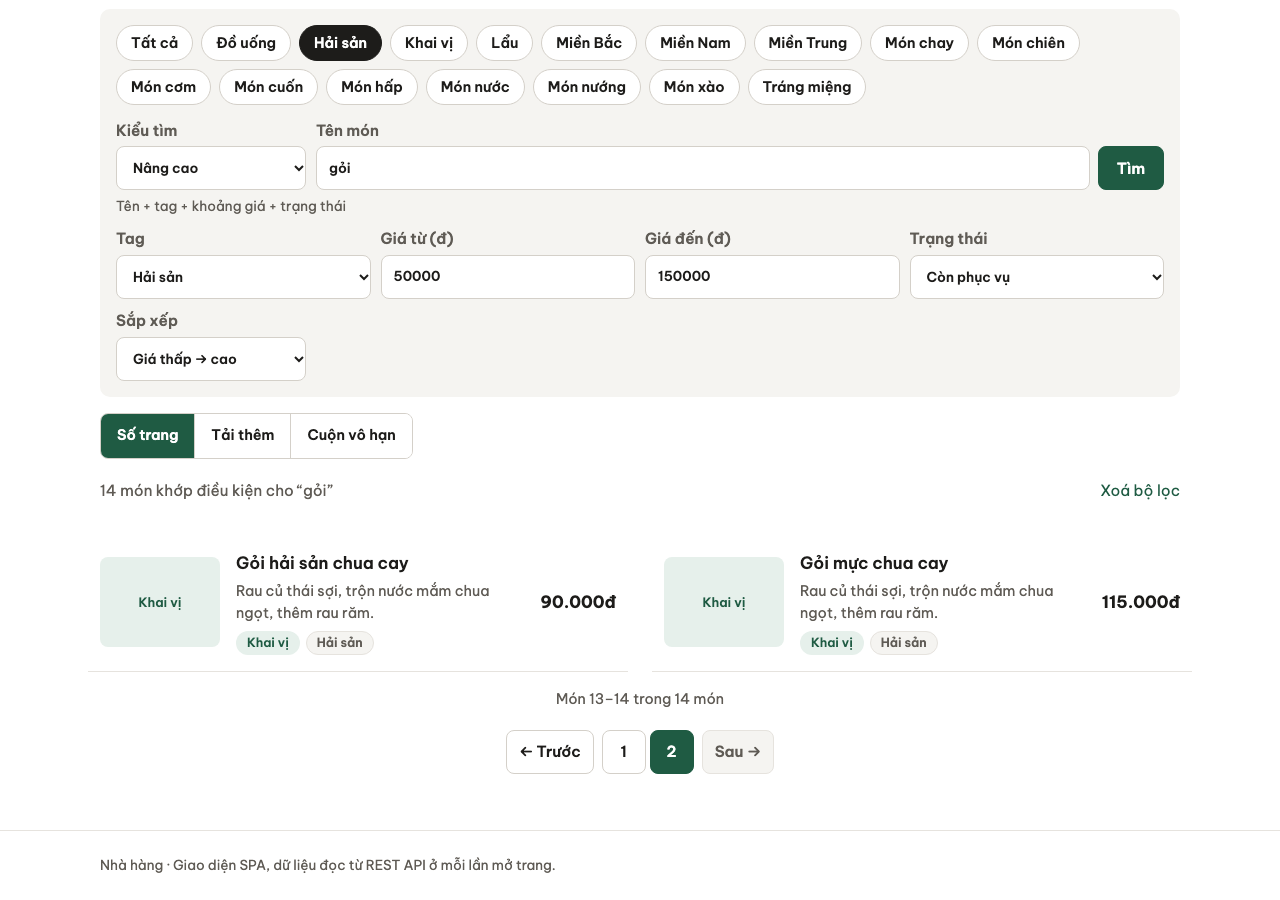
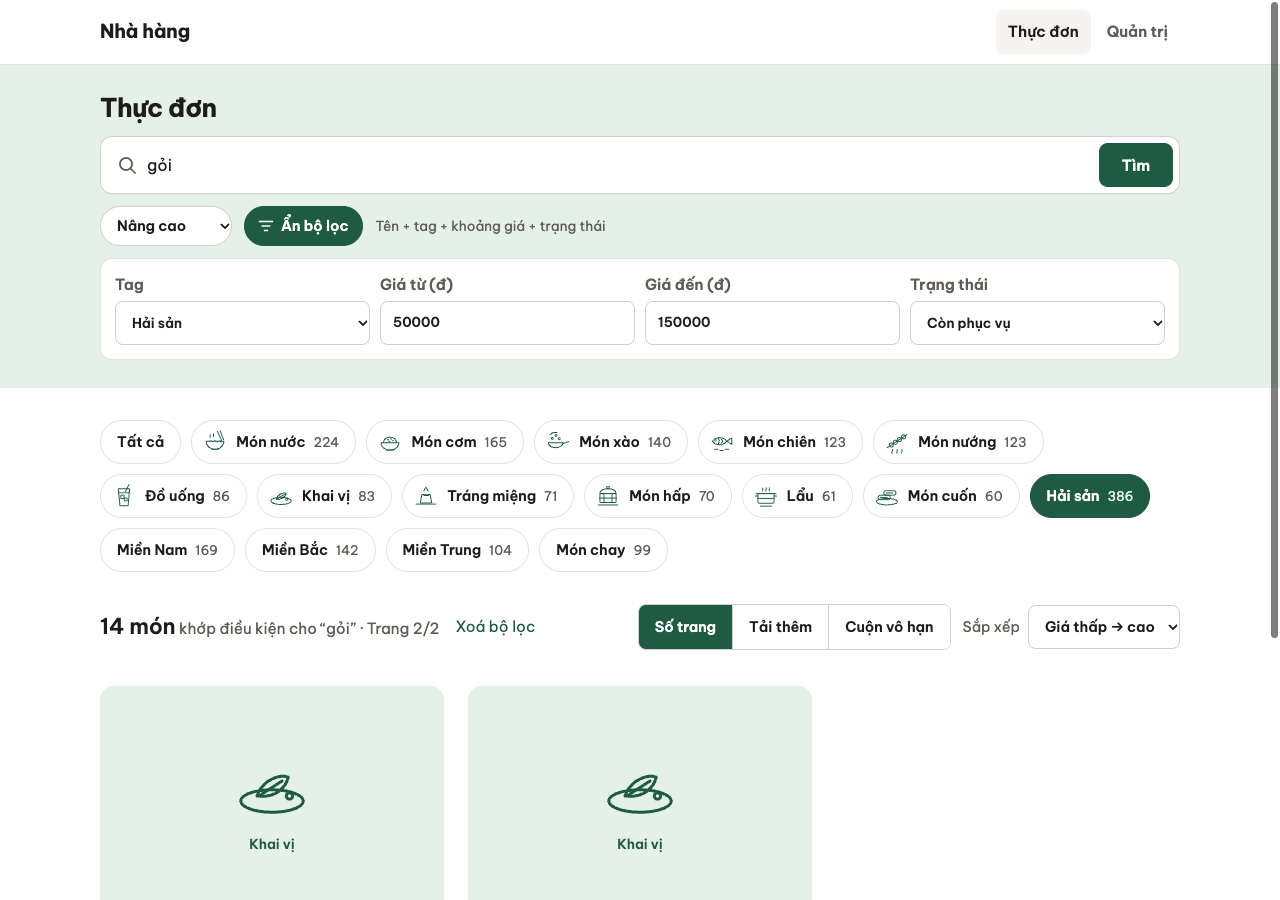
Nghiệm thu lại giao diện thực đơn mới: gom id qua 3 kiểu UI 386/386 (Hải sản + giá tăng), kịch bản bước 20–24 đạt; README, hotrotrinhbay.html, kichban.html theo giao diện mới; chụp lại 11 ảnh evidence thực đơn

diff --git a/kichban.html b/kichban.html
@@ -378,16 +378,16 @@ COMMIT</code></pre></li>
   <h3>Phần 1 — Bảng nghiệm thu của đề</h3>
   <div class="card">
     <ol class="demo">
-      <li><span class="crit">Ba kiểu UI</span> Mở <code>http://localhost:5173/dishes</code>. <span class="see">Thấy được: "1200 món", 12 món (Phở bò tái đầu tiên), dải 1 2 … 100; Network chỉ 1 request <code>dishes?mode=basic&amp;pageSize=12</code> ≈ 6 KB, Preview: <code>items</code> 12, <code>total</code> 1200.</span></li>
+      <li><span class="crit">Ba kiểu UI</span> Mở <code>http://localhost:5173/dishes</code>. <span class="see">Thấy được: đầu trang có ảnh ghép 3 món, "1.200 món · Trang 1/100", 12 thẻ món (Phở bò tái đầu tiên), dải 1 2 … 100; món chưa có ảnh (vd. Cơm gà Hội An) hiện hình minh hoạ theo loại món; Network chỉ 1 request <code>dishes?mode=basic&amp;pageSize=12</code> ≈ 6 KB, Preview: <code>items</code> 12, <code>total</code> 1200.</span></li>
       <li>Bấm trang <strong>2</strong>. <span class="see">Thấy được: URL <code>?page=2</code>; request <code>…&amp;page=2&amp;pageSize=12</code>; "Món 13–24 trong 1200 món"; trang cuộn về đầu danh sách.</span> Bấm <strong>100</strong> → <span class="see">"Món 1189–1200", nút Sau bị khoá.</span> Terminal (LOG_SQL): <span class="see"><code>LIMIT $1 OFFSET $2</code>, <code>params: ["12","1188"]</code>.</span></li>
       <li>Bấm "Tải thêm" ở công tắc. Bấm nút <strong>Tải thêm</strong> 2 lần. <span class="see">Thấy được: 12 → 24 → 36 món (nối, không thay), "Đã hiện 36/1200 món", URL vẫn <code>?view=more</code>; Network: <code>page=1</code>, <code>2</code>, <code>3</code>, mỗi trang một lần.</span> Bấm thật nhanh nhiều lần → <span class="see">nút khoá "Đang tải thêm…", mỗi trang vẫn chỉ một request.</span></li>
       <li>Bấm "Cuộn vô hạn", cuộn xuống. <span class="see">Thấy được: gần cuối danh sách tự có request <code>page=2</code>, <code>3</code>…, món mới hiện dần; vẫn có nút "Tải thêm" dự phòng.</span></li>
-      <li>Ở Tải thêm, bấm chip <strong>Lẩu</strong>, bấm Tải thêm tới hết. <span class="see">Thấy được: "Đã hiện hết 61 món.", không còn nút, không có request <code>page=7</code>; trong danh sách có "Combo 100% bò" (id 560, ở trang 2) — có tag Lẩu dù tên không chứa chữ "lẩu".</span></li>
-      <li><span class="crit">Filter / sort</span> Về Số trang, vào trang 2, chọn <strong>Giá thấp → cao</strong>. <span class="see">Thấy được: URL bỏ <code>page</code> (về trang 1); đầu danh sách là 4 món 0đ — Trà đá (id 300), Rau sống, Nước sâm, Đá viên (id 1100) — cùng giá nên xếp theo id; rồi Nước mía 15.000đ. Sắp xếp áp dụng cho cả 1.200 món, không riêng 12 món đang xem.</span></li>
-      <li>Chọn "Nâng cao", <strong>Giá từ 0 đến 0</strong>, Tìm. <span class="see">Thấy được: 4 món (0 là tiêu chí, không bị bỏ).</span> Xoá giá, chip Lẩu, Trạng thái <strong>Tạm hết</strong>. <span class="see">Thấy được: 12 món, mọi món có nhãn "Tạm hết" (<code>available=false</code> có hiệu lực).</span></li>
+      <li>Ở Tải thêm, bấm "11 tag khác" rồi <strong>Lẩu</strong> ở thanh danh mục, bấm Tải thêm tới hết. <span class="see">Thấy được: "Đã hiện hết 61 món.", không còn nút, không có request <code>page=7</code>; trong danh sách có "Combo 100% bò" (id 560, ở trang 2) — có tag Lẩu dù tên không chứa chữ "lẩu".</span></li>
+      <li><span class="crit">Filter / sort</span> Về Số trang, vào trang 2, chọn <strong>Giá thấp → cao</strong> ở ô Sắp xếp (thanh công cụ). <span class="see">Thấy được: URL bỏ <code>page</code> (về trang 1); đầu danh sách là 4 món "Miễn phí" (0đ) — Trà đá (id 300), Rau sống, Nước sâm, Đá viên (id 1100) — cùng giá nên xếp theo id; rồi Nước mía 15.000đ. Sắp xếp áp dụng cho cả 1.200 món, không riêng 12 món đang xem.</span></li>
+      <li>Bấm "Bộ lọc nâng cao", <strong>Giá từ 0 đến 0</strong>, Tìm. <span class="see">Thấy được: 4 món (0 là tiêu chí, không bị bỏ).</span> Xoá giá, chọn Tag <strong>Lẩu</strong>, Trạng thái <strong>Tạm hết</strong>. <span class="see">Thấy được: 12 món, mọi thẻ có nhãn "Tạm hết" trên ảnh (<code>available=false</code> có hiệu lực).</span></li>
       <li><span class="crit">Chuyển trang sau search</span> "Xoá bộ lọc", tìm <strong>phở</strong>. <span class="see">Thấy được: "54 món khớp điều kiện cho “phở”", 5 trang.</span> Bấm trang 2, rồi 5. <span class="see">Thấy được: URL <code>?q=phở&amp;page=5</code> giữ từ khoá; trang 5 có 6 món; mọi request đều có <code>q=phở</code>.</span></li>
-      <li><strong>Không trộn kết quả:</strong> Network → <strong>Slow 3G</strong>. Ở Tải thêm, bấm Tải thêm rồi bấm ngay chip <strong>Đồ uống</strong>. <span class="see">Thấy được: request cũ "(canceled)"; danh sách chỉ có món Đồ uống ("Đã hiện 12/86 món"), không lẫn món cũ.</span> Network → <strong>Offline</strong>, bấm Tải thêm → <span class="see">thông báo lỗi, 12 món vẫn còn, nút "Thử lại".</span> Về No throttling, bấm Thử lại → <span class="see">tải đúng trang 2.</span></li>
-      <li><span class="crit">Xoá điều kiện, Reload, mở lại link</span> Ở <code>?q=phở&amp;page=2</code>: <strong>Reload</strong> → <span class="see">đúng trang 2 của "phở".</span> Copy URL sang tab mới → <span class="see">như trên.</span> Back / Forward → <span class="see">về đúng điều kiện trước / sau.</span> Ở <code>?q=phở&amp;view=more</code> đã tải 36 món, Reload → <span class="see">tải lại từ đầu 12 món, giữ "phở" (chính sách đã công bố).</span> "Xoá bộ lọc" → <span class="see">1200 món.</span></li>
+      <li><strong>Không trộn kết quả:</strong> Network → <strong>Slow 3G</strong>. Ở Tải thêm, mở sẵn "11 tag khác", bấm Tải thêm rồi bấm ngay <strong>Đồ uống</strong> ở thanh danh mục. <span class="see">Thấy được: request cũ "(canceled)"; danh sách chỉ có món Đồ uống ("Đã hiện 12/86 món"), không lẫn món cũ.</span> Network → <strong>Offline</strong>, bấm Tải thêm → <span class="see">thông báo lỗi, 12 món vẫn còn, nút "Thử lại".</span> Về No throttling, bấm Thử lại → <span class="see">tải đúng trang 2.</span></li>
+      <li><span class="crit">Xoá điều kiện, Reload, mở lại link</span> Ở <code>?q=phở&amp;page=2</code>: <strong>Reload</strong> → <span class="see">đúng trang 2 của "phở".</span> Copy URL sang tab mới → <span class="see">như trên.</span> Back / Forward → <span class="see">về đúng điều kiện trước / sau.</span> Ở <code>?q=phở&amp;view=more</code> đã tải 36 món, Reload → <span class="see">tải lại từ đầu 12 món, giữ "phở" (chính sách đã công bố).</span> "Xoá bộ lọc" → <span class="see">1.200 món, đầu trang đầy đủ trở lại.</span></li>
       <li>Sửa tay URL <code>/dishes?page=0</code>, <code>/dishes?mode=advanced&amp;minPrice=abc</code>, <code>/dishes?page=101</code>. <span class="see">Thấy được: lỗi cạnh ô giá / "Số trang phải là số nguyên dương." + "Xoá bộ lọc"; trang 101 → "Trang 101 không có món nào." + link về trang 100.</span></li>
     </ol>
   </div>
@@ -411,7 +411,7 @@ COMMIT</code></pre></li>
       <li><strong>Thêm tag trong form:</strong> <code>/admin/chefs/new</code>, gõ tên, ô tìm tag gõ "Món Huế" → <span class="see">không có;</span> bấm "+ Thêm tag" → "Thêm và chọn" → <span class="see"><code>POST /api/tags</code>, tag mới đã tick sẵn, tên vẫn còn.</span> Thêm lại "món huế" → <span class="see">"Đã có tag tên này." (không phân biệt hoa thường).</span></li>
       <li><strong>Đầu bếp đúng chuyên môn:</strong> <code>/admin/dishes/new</code>, tick tag <strong>Lẩu</strong> → <span class="see">các đầu bếp chuyên Lẩu lên đầu danh sách, nhãn "Đúng chuyên môn".</span></li>
       <li><strong>Chức năng block6:</strong> <code>/admin/ingredients/1/delete</code> ("Thịt bò") → <span class="see">liệt kê món đang dùng, không có nút Xoá.</span> <code>/admin/chefs/7/delete</code> ("Bùi Thanh Tâm", 0 món) → <span class="see">xoá được ngay.</span> Tắt API → <span class="see">"Không tải được dữ liệu" + Thử lại ở cả Số trang và Tải thêm.</span></li>
-      <li><strong>Responsive:</strong> DevTools → iPhone. <span class="see">Thấy được: phân trang rút gọn "← Trước · Trang 2/100 · Sau →", chip tag cuộn ngang, bảng admin thành thẻ, không cuộn ngang trang.</span></li>
+      <li><strong>Responsive:</strong> DevTools → iPhone. <span class="see">Thấy được: phân trang rút gọn "← Trước · Trang 2/100 · Sau →", thanh danh mục cuộn ngang, thẻ món thành dòng ảnh 96px, bảng admin thành thẻ, không cuộn ngang trang.</span></li>
       <li>Sau buổi demo: <code>npx prisma db seed</code> để đưa dữ liệu về như ban đầu (tag vừa thêm không xoá được qua API).</li>
     </ol>
   </div>
@@ -443,6 +443,7 @@ COMMIT</code></pre></li>
       <tr><td>16</td><td>Đường kẻ dưới mỗi món cong ở hai đầu</td><td><code>border-radius</code> của hiệu ứng nổi đặt sẵn → chỉ bo góc khi rê chuột</td></tr>
       <tr><td>17</td><td>Toàn văn "cá kho tộ": 10 món cùng hiện 1.000 nhưng id lộn xộn (8, 109, 201, 80…)</td><td><code>ts_rank</code> là float4, khác nhau ở sai số → làm tròn 3 chữ số trong SQL rồi mới xếp; thêm kiểm tra vào <code>check-api.sh</code> D</td></tr>
       <tr><td>19</td><td>Ô tìm admin đầu bếp / nguyên liệu: <code>q=%</code>, <code>q=_</code> trả cả 60 / 250 dòng</td><td><code>searchWhere</code> giữ từ block6 chưa escape (bước 7 chỉ sửa tìm món) → mọi ô tìm admin đi qua <code>escapeLike</code>; <code>check-api.sh</code> F kiểm tra lại (total 0)</td></tr>
+      <tr><td>22</td><td>Trang chi tiết món chưa có ảnh: hình minh hoạ nằm trên nền xám thay vì nền màu nhóm</td><td>Luật cũ <code>.detail-photo .no-photo</code> (2 class, có <code>background</code>) thắng <code>.dish-art</code> → tách luật riêng cho khung minh hoạ</td></tr>
     </table></div>
   </div>
 </section>

diff --git a/hotrotrinhbay.html b/hotrotrinhbay.html
@@ -256,7 +256,7 @@
   <table>
     <thead><tr><th>Chức năng</th><th>Ở đâu</th><th>Áp dụng cho</th><th>Ghi chú</th></tr></thead>
     <tbody>
-      <tr><td>Lọc tag, khoảng giá, trạng thái</td><td>Thực đơn, chế độ Nâng cao + chip tag</td><td>Toàn bộ món khớp</td><td>Nối bằng AND; ô trống = không lọc; <code>giá 0</code> và <code>available=false</code> là tiêu chí có hiệu lực</td></tr>
+      <tr><td>Lọc tag, khoảng giá, trạng thái</td><td>Thực đơn, chế độ Nâng cao + thanh danh mục</td><td>Toàn bộ món khớp</td><td>Nối bằng AND; ô trống = không lọc; <code>giá 0</code> và <code>available=false</code> là tiêu chí có hiệu lực</td></tr>
       <tr><td>Sắp xếp tên, giá tăng / giảm</td><td>Thực đơn (Cơ bản, Nâng cao)</td><td>Toàn bộ món khớp</td><td>Luôn thêm <code>id</code> làm thứ tự phụ → các trang chia trên cùng một thứ tự</td></tr>
       <tr><td>Xếp theo độ phù hợp</td><td>Toàn văn, Gần đúng</td><td>Toàn bộ món khớp</td><td>Ô sắp xếp bị khoá; điểm giảm dần rồi <code>id</code></td></tr>
       <tr><td>Tìm theo tên hoặc tag, id tăng dần</td><td>Admin món</td><td>Toàn bộ món khớp</td><td>Thứ tự cố định 1 → 1200; thêm món xong về trang 1 + thông báo, sửa xong về đúng trang đang xem</td></tr>
@@ -366,7 +366,7 @@ COMMIT</code></pre>
       <tr><td>React 19 · React Router 8 (thư viện) · Vite 8</td><td>SPA</td><td>Giữ block6; điều kiện tìm đọc / ghi bằng <code>useSearchParams</code> trên URL</td></tr>
       <tr><td><code>fetch</code> + <code>AbortController</code></td><td>Gọi API, huỷ request cũ</td><td>Đổi điều kiện nhanh thì response cũ không ghi đè hay nối vào kết quả mới</td></tr>
       <tr><td><code>IntersectionObserver</code></td><td>Cuộn vô hạn</td><td>Có sẵn trong browser; theo dõi một phần tử canh, không gắn sự kiện scroll</td></tr>
-      <tr><td>CSS thuần</td><td>Giao diện, responsive, hiệu ứng cơ bản</td><td>Tiếp tục bộ màu block6; khung xương khi tải, món mới hiện dần; tắt chuyển động khi người dùng bật "giảm chuyển động"</td></tr>
+      <tr><td>CSS thuần</td><td>Giao diện, responsive, hiệu ứng cơ bản</td><td>Tiếp tục bộ màu block6; thực đơn làm lại theo bản phác Figma của nhóm (đầu trang, danh mục, thẻ món dạng lưới, 11 hình minh hoạ SVG tự vẽ cho món chưa có ảnh); khung xương khi tải, món mới hiện dần; tắt chuyển động khi người dùng bật "giảm chuyển động"</td></tr>
       <tr><td><code>check-api.sh</code> · <code>run-sql.js</code> · Chrome headless</td><td>Nghiệm thu</td><td>251 kiểm tra API; truy vấn mẫu có kỳ vọng; kịch bản trình duyệt gom id qua cả 3 kiểu UI</td></tr>
       <tr><td>Git</td><td>Lưu phiên bản</td><td>Mỗi bước một commit; commit "Nghiệm thu giai đoạn I" đánh dấu mốc đạt đủ tiêu chí</td></tr>
     </tbody>

diff --git a/BUILD_LOG.md b/BUILD_LOG.md
@@ -724,3 +724,30 @@ Phương án bỏ:
   - Đo lại trên commit trước bước 24 (`git stash`, rồi `stash pop`) cũng là 2 → do React StrictMode ở bản dev chạy effect 2 lần (request đầu bị huỷ), ảnh ghép không gọi thêm.
   - Sửa kiểm tra: đếm URL khác nhau = 1.
 - "lẩu" ở thực đơn = 60 chứ không phải 61: 61 là số của admin (tìm cả tên tag, có "Combo 100% bò"); chế độ Cơ bản chỉ tìm theo tên.
+
+## Bước 25 — Nghiệm thu lại sau khi làm lại giao diện thực đơn; tài liệu, ảnh bằng chứng (plan mục 13)
+**Đã kiểm tra:**
+- **Ba kiểu UI không mất / lặp món** (bảng nghiệm thu dòng 1), điều kiện `?mode=advanced&tag=12&sort=gia-tang` (Hải sản, giá tăng — nhiều món cùng giá nên kiểm cả thứ tự phụ theo id).
+  - Kỳ vọng lấy thẳng từ API (100 món/trang): 386 món.
+  - Số trang (bấm Sau tới hết), Tải thêm (mỗi lượt bấm 3 lần liền), Cuộn vô hạn: đều **386/386 id, không trùng, đúng thứ tự API**. Không lỗi console.
+- Kịch bản bước 22 (9/9), 23 (13/13), 24 (33/33) đạt trên code cuối.
+- Kịch bản admin bước 20 chạy lại: **47/47** (ảnh nhỏ bảng admin món nay là minh hoạ). Seed lại sau đó.
+- `check-api.sh` không chạy lại: API không đổi kể từ lần 251/251 ở bước 21 (bước 22–25 chỉ sửa `web/`).
+- `vite build` thành công. Hai trang tài liệu ở 1280px không cuộn ngang, link mục lục đúng.
+
+**Lỗi của script (không phải lỗi app):** lần chạy đầu, Số trang chỉ gom được 24 id (trùng 12).
+- Script chờ "URL đổi + có thẻ món + không có khung xương", điều kiện này đúng ngay lúc URL vừa đổi mà React chưa vẽ lại, nên đọc lại thẻ của trang cũ; lượt sau gặp khung xương (chưa có phân trang) nên dừng sớm.
+- Sửa: chờ tới khi thẻ đầu đổi id → 386/386.
+
+**Tài liệu:**
+- `README.md`: dòng `/dishes` mô tả giao diện mới; cách áp dụng điều kiện (danh mục, sắp xếp dùng điều kiện đã áp dụng).
+- `hotrotrinhbay.html`: "chip tag" → "thanh danh mục"; dòng CSS thuần ghi thực đơn làm lại theo bản phác Figma, 11 hình minh hoạ SVG tự vẽ.
+- `kichban.html`:
+  - kịch bản demo theo giao diện mới: đầu trang + "1.200 món · Trang 1/100", hình minh hoạ, "11 tag khác" → Lẩu / Đồ uống, ô Sắp xếp ở thanh công cụ, "Miễn phí", "Bộ lọc nâng cao", nhãn Tạm hết trên ảnh, responsive;
+  - bảng lỗi thêm lỗi nền xám ở bước 22.
+- `evidence/screens/`: chụp lại 11 ảnh thực đơn (1280×900, cùng URL trong `network-log.md`).
+  - Kết quả khớp bằng chứng cũ: phở 54, `100%` 1, nâng cao 14 (trang 2/2), toàn văn 62, gần đúng 6, `?page=101` trang trống, `?minPrice=abc` lỗi cạnh ô.
+  - Network / SQL không đổi (API không đổi).
+- `evidence/README.md` ghi ngày chụp lại.
+
+**Vẫn còn (đã báo ở bước 21, chờ nhóm quyết):** `hotrotrinhbay.html` / `kichban.html` tràn ngang ở 375px (594 / 882px), không đổi so với trước bước 25.

diff --git a/README.md b/README.md
@@ -146,7 +146,7 @@ Tag chỉ thêm, không sửa / xoá (nhóm chốt).
 
 | URL | Nội dung | Gọi API |
 | :--- | :--- | :--- |
-| `/dishes` | Thực đơn: khung tìm 4 chế độ, chip tag, sắp xếp; công tắc **Số trang / Tải thêm / Cuộn vô hạn** | `GET /api/dishes?…&pageSize=12`, `GET /api/tags` |
+| `/dishes` | Thực đơn (giao diện theo bản phác Figma, plan mục 13): đầu trang + khung tìm 4 chế độ ("Bộ lọc nâng cao"), thanh danh mục tag, thẻ món dạng lưới (hình minh hoạ theo loại món khi chưa có ảnh); thanh công cụ: **Số trang / Tải thêm / Cuộn vô hạn** + sắp xếp | `GET /api/dishes?…&pageSize=12`, `GET /api/tags` |
 | `/dishes/:id` | Chi tiết: ảnh, giá, tag (link lọc), đầu bếp, nguyên liệu | `GET /api/dishes/:id` |
 | `/admin/dishes?q=&page=` | Quản trị món: 20 món/trang, id tăng dần, tìm theo tên hoặc tag | `GET /api/dishes?searchIn=name,tag&pageSize=20` |
 | `/admin/dishes/new`, `/:id/edit`, `/:id/delete` | Form món (chọn nhiều tag, thêm tag mới, đầu bếp đúng chuyên môn lên đầu), xác nhận xoá | `/api/dishes…`, `/api/tags` |
@@ -156,7 +156,7 @@ Tag chỉ thêm, không sửa / xoá (nhóm chốt).
 **Sau khi lưu ở trang quản trị:** sửa / xoá / Huỷ → về đúng trang danh sách đang xem (giữ `page`, `q`), dòng vừa sửa được tô. Thêm mới → về trang 1 + thông báo (bản ghi mới nằm ở trang cuối).
 
 **URL của thực đơn** chứa toàn bộ điều kiện đã áp dụng: `/dishes?mode=&q=&tag=&minPrice=&maxPrice=&available=&sort=&view=&page=` (giá trị mặc định không ghi).
-- Áp dụng điều kiện khi bấm Tìm / Enter (ô chữ) hoặc khi đổi ô chọn, chip — không theo từng phím. Đổi điều kiện → về trang 1 / danh sách mới. Chuyển trang → giữ điều kiện, chỉ đổi `page`.
+- Áp dụng điều kiện khi bấm Tìm / Enter (ô chữ) hoặc khi đổi ô chọn, bấm nút danh mục, đổi sắp xếp — không theo từng phím. Danh mục và sắp xếp dùng điều kiện đã áp dụng trên URL. Đổi điều kiện → về trang 1 / danh sách mới. Chuyển trang → giữ điều kiện, chỉ đổi `page`.
 - `view=pages` (mặc định): `page` nằm trên URL → Reload, copy link, Back/Forward mở lại đúng trang.
 - `view=more`, `view=scroll`: `page` không ghi lên URL → mở lại link thì **tải lại từ đầu** với cùng điều kiện. Hai kiểu dùng chung `loadNext()`: không gửi trùng, bỏ response của điều kiện cũ, lỗi thì giữ danh sách và cho Thử lại. Cuộn vô hạn có nút "Tải thêm" dự phòng.
 - URL sửa tay sai (`?page=0`, `?minPrice=abc`) → lỗi cạnh ô + "Xoá bộ lọc", không trang trắng.

diff --git a/evidence/README.md b/evidence/README.md
@@ -1,6 +1,6 @@
 # Bằng chứng nộp — Block 7 (tìm kiếm và phân trang)
 
-Thu ngày 26/10/2026 trên dữ liệu seed chuẩn (`npx prisma db seed`, tất định), API :3000 và bản production của SPA (`vite build` + `vite preview` :5173). Phần admin (`sql-log/admin.txt`, `admin-dau-bep.txt`, `screens/admin.png`, `admin-dau-bep.png`) thu lại ngày 29/10/2026 sau khi bảng admin đổi sang id tăng dần và đầu bếp, nguyên liệu có số trang (plan mục 12), trên seed chuẩn, SPA chạy bằng `vite` dev. Thư mục này **không** chứa `.env`, chuỗi kết nối, host hay mật khẩu database. Log SQL chỉ có câu SQL và giá trị tham số (từ khoá, số trang).
+Thu ngày 26/10/2026 trên dữ liệu seed chuẩn (`npx prisma db seed`, tất định), API :3000 và bản production của SPA (`vite build` + `vite preview` :5173). 11 ảnh thực đơn trong `screens/` (so-trang-1, so-trang-2, tai-them, cuon-vo-han, basic, basic-wildcard, advanced, fulltext, fuzzy, vuot-pham-vi, tham-so-sai) chụp lại ngày 29/10/2026 theo giao diện mới (plan mục 13), cùng URL và cùng kết quả; Network và SQL không đổi vì API không đổi. Phần admin (`sql-log/admin.txt`, `admin-dau-bep.txt`, `screens/admin.png`, `admin-dau-bep.png`) thu lại ngày 29/10/2026 sau khi bảng admin đổi sang id tăng dần và đầu bếp, nguyên liệu có số trang (plan mục 12), trên seed chuẩn, SPA chạy bằng `vite` dev. Thư mục này **không** chứa `.env`, chuỗi kết nối, host hay mật khẩu database. Log SQL chỉ có câu SQL và giá trị tham số (từ khoá, số trang).
 
 ## Đối chiếu với yêu cầu của đề
 
@@ -56,5 +56,5 @@ Lưu vào `evidence/manual/`, đánh dấu khi xong:
 - [ ] `network-tai-them.png` — như trên ở `?view=more`, bấm Tải thêm 2 lần: 3 request `page=1,2,3`, URL trang không đổi.
 - [ ] `network-cuon-vo-han.png` — `?view=scroll`, cuộn xuống: request `page=2,3…` tự gửi, mỗi trang một lần.
 - [ ] `network-4-che-do.png` (hoặc 4 ảnh) — mỗi chế độ ở bảng trên: URL trang + request API + Preview.
-- [ ] `network-mang-cham.png` *(tuỳ chọn)* — Network → Slow 3G, bấm Tải thêm rồi bấm chip khác ngay: request cũ bị huỷ (canceled), danh sách chỉ có kết quả mới.
+- [ ] `network-mang-cham.png` *(tuỳ chọn)* — Network → Slow 3G, bấm Tải thêm rồi bấm ngay một nút danh mục khác: request cũ bị huỷ (canceled), danh sách chỉ có kết quả mới.
 - [ ] `terminal-log-sql.png` — terminal API khi bật `LOG_SQL=1` và mở `/dishes?page=2` (thấy `LIMIT $1 OFFSET $2`, `params: ["12","12"]`).
